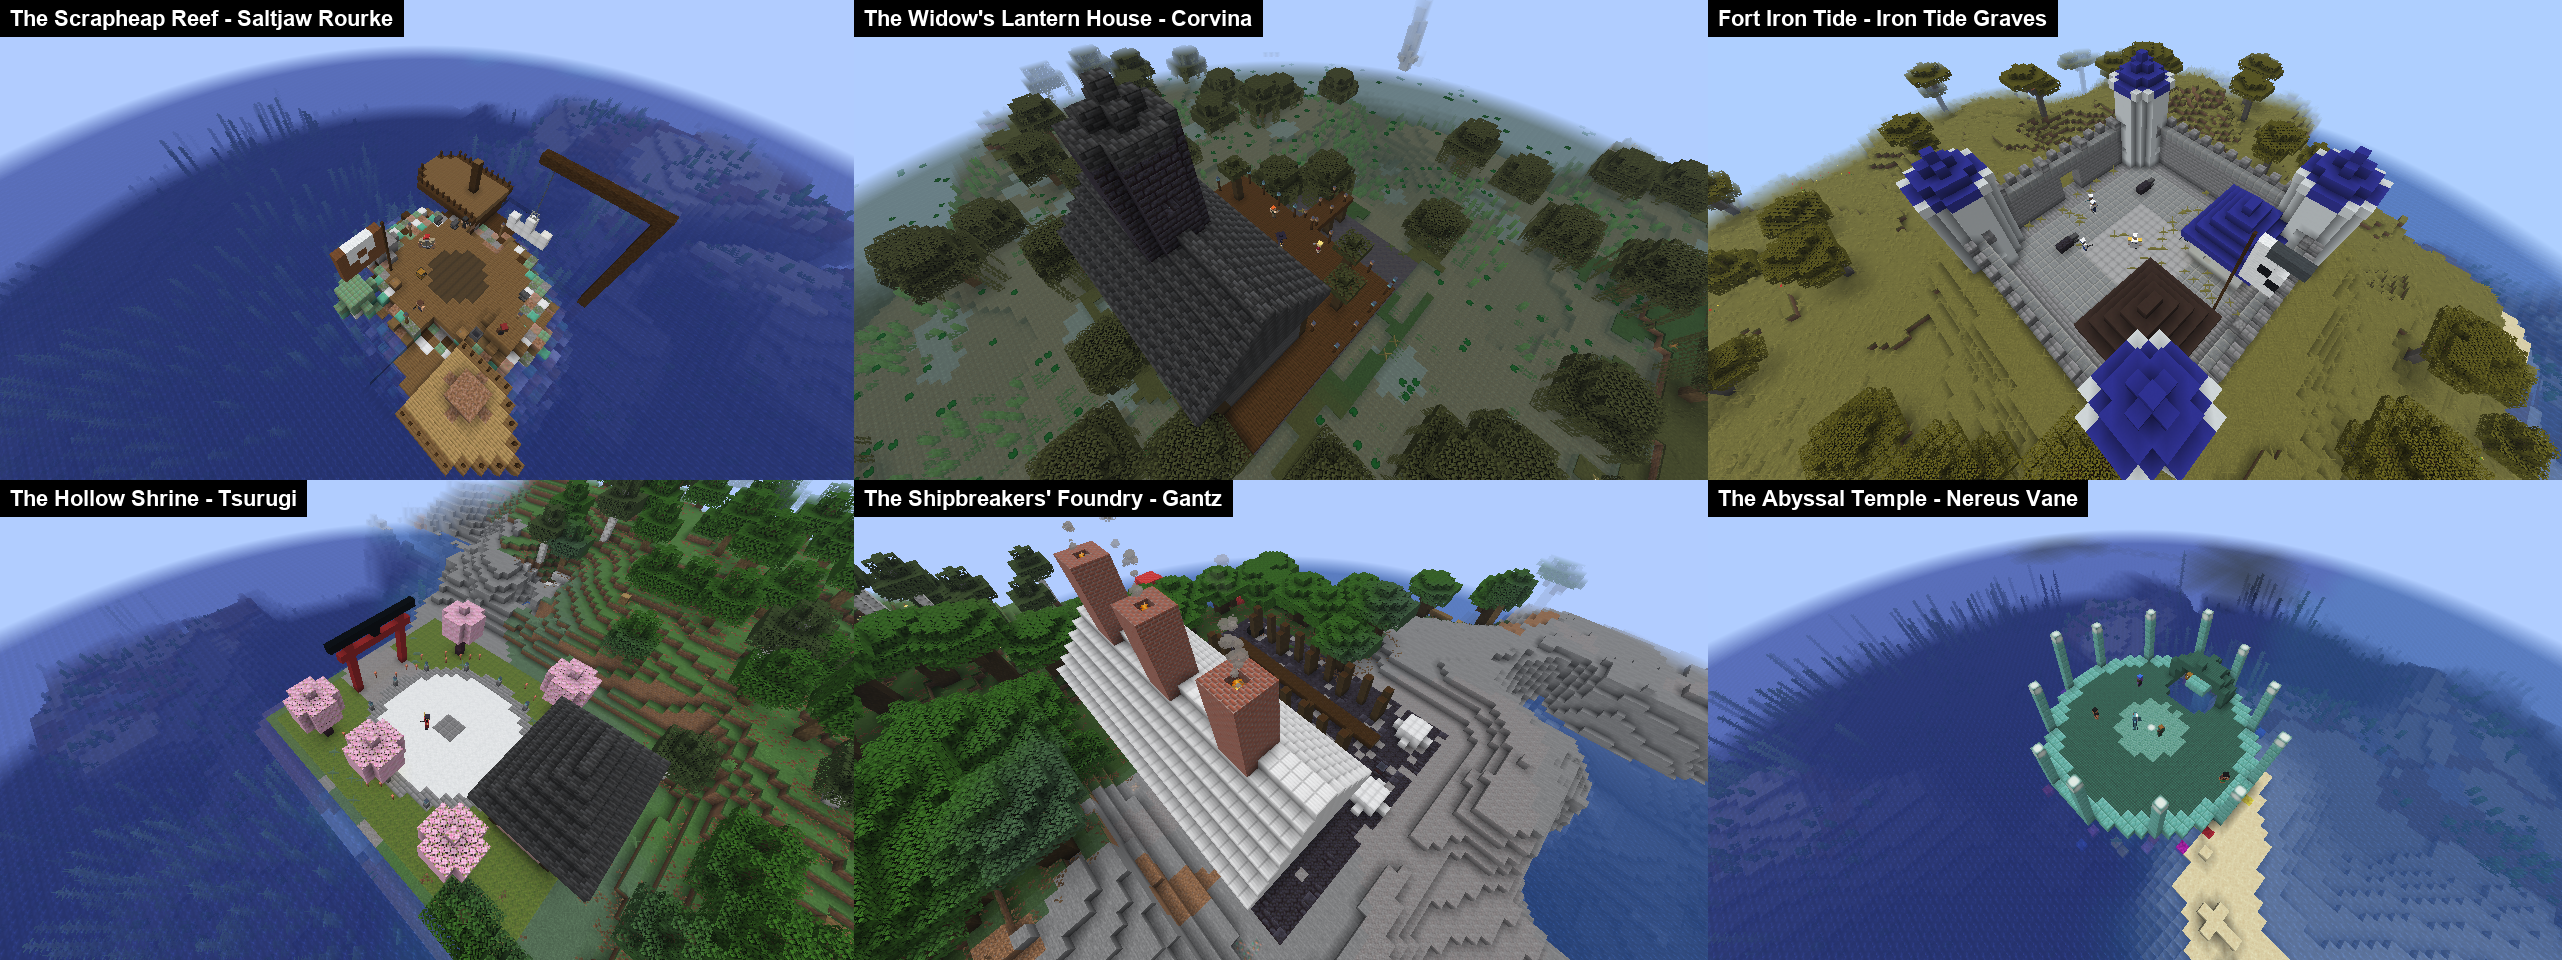
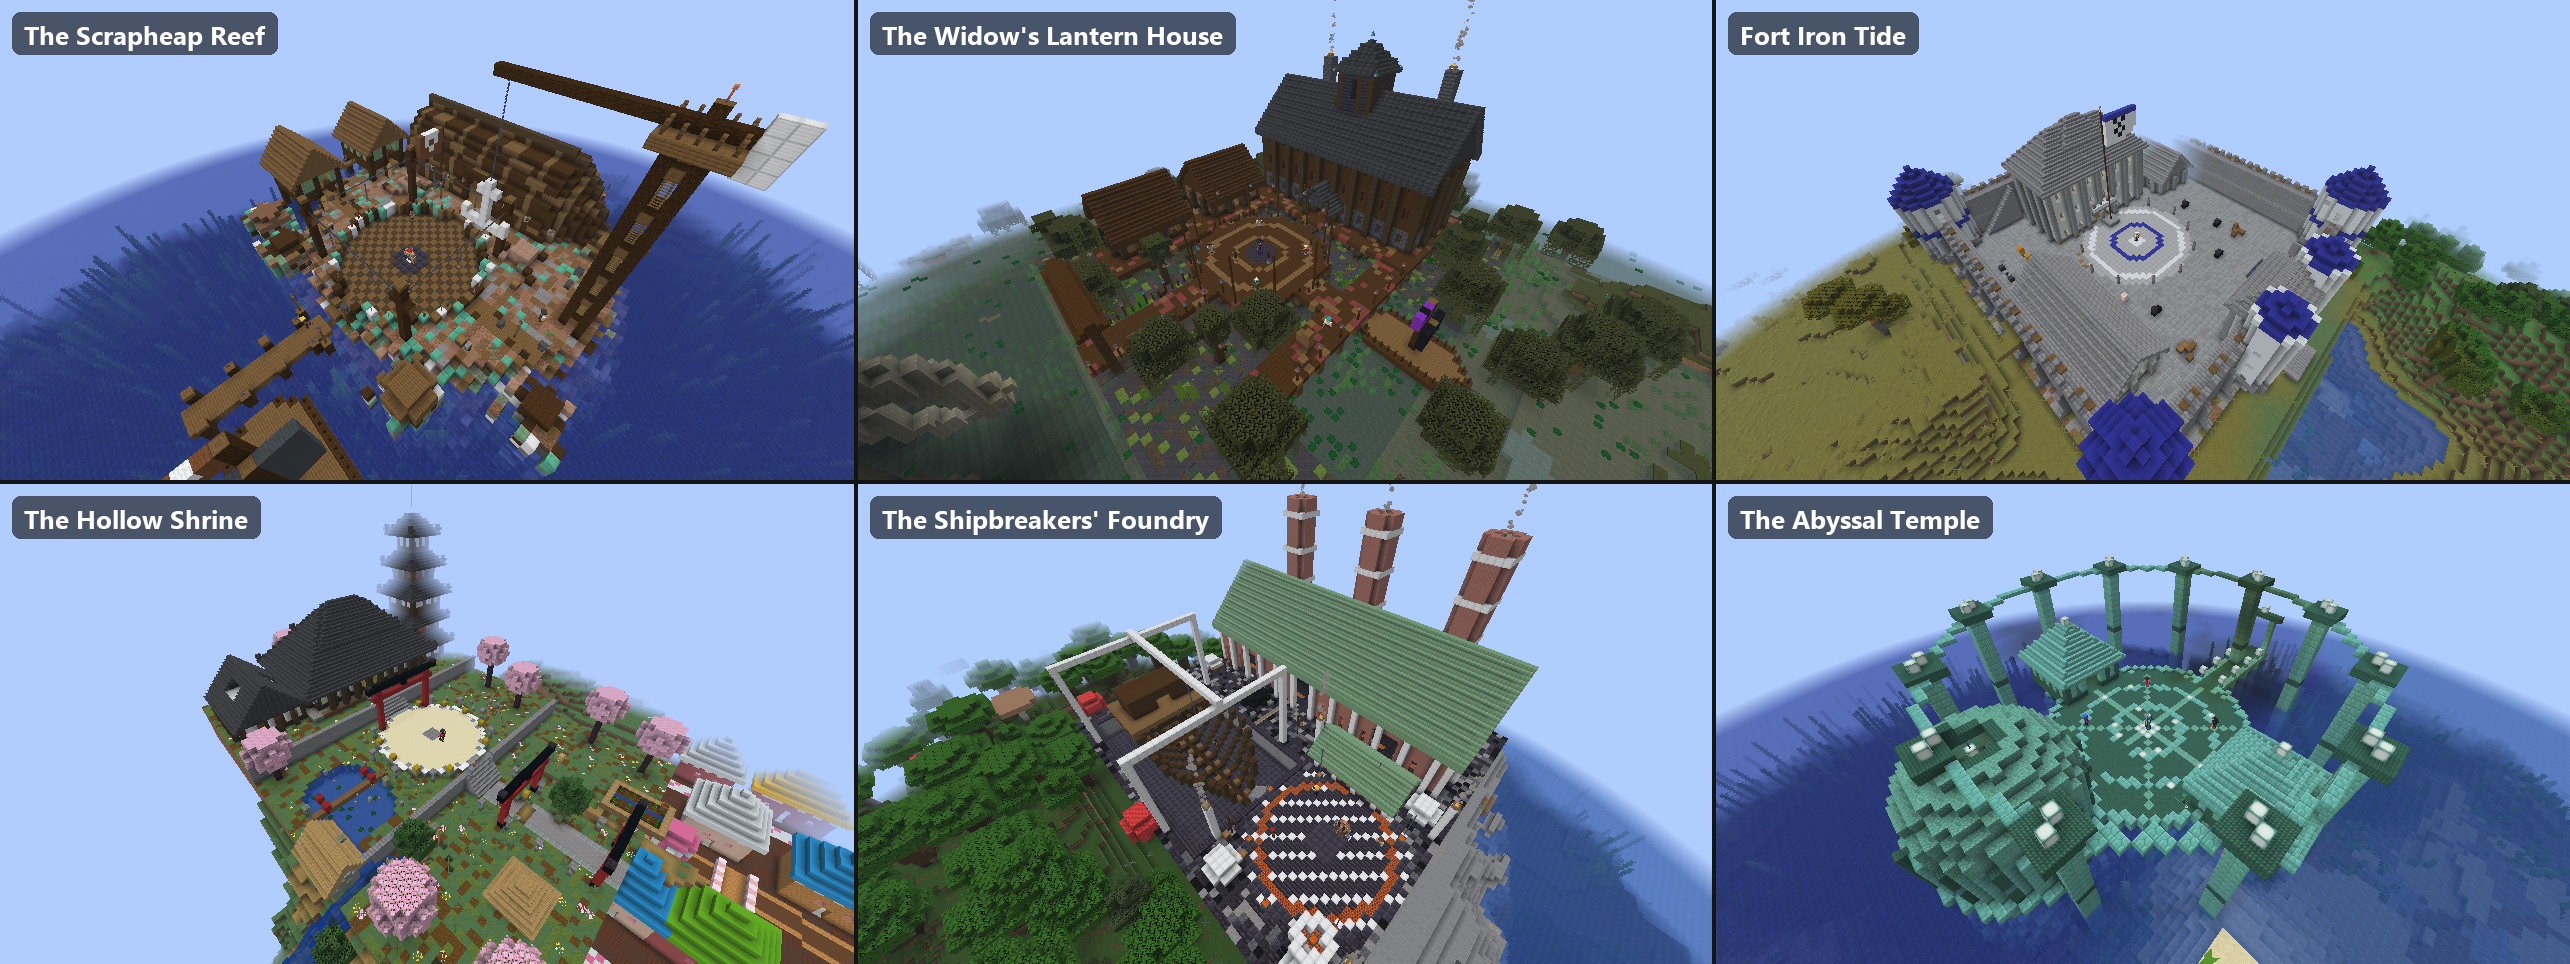
Test the bigger lairs from their own bounds, with ground and interior shots
The lair test now finds each lair's boss, crew and chest inside the structure's real bounds (the Hollow Shrine's
boss was over 72 blocks from its /locate spot), expects seven crew per lair, checks every block id in the
structure palettes, logs the light at each chest, and frames four shots per lair: overviews from the south-east
and north-west sized to the compound, the arena from ground level with a clear view, and the boss's quarters.
docs/lairs.png is the new sheet.

Claude-Session: https://claude.ai/code/session_01ExVGnAX4fyVX4JDUgG3rdo

diff --git a/src/gametest/java/com/onepiecebosses/test/LairsClientTest.java b/src/gametest/java/com/onepiecebosses/test/LairsClientTest.java
@@ -58,12 +58,12 @@ public class LairsClientTest implements FabricClientGameTest {
 	private record Lair(String name, String boss, String kit, int crew, boolean sea) {}
 
 	private static final List<Lair> LAIRS = List.of(
-			new Lair("scrapheap_reef", "saltjaw_rourke", "scrapdeck_raider", 3, true),
-			new Lair("lantern_house", "corvina_fog_widow", "lantern_smuggler", 4, false),
-			new Lair("fort_iron_tide", "iron_tide_graves", "deserter_marine", 5, false),
+			new Lair("scrapheap_reef", "saltjaw_rourke", "scrapdeck_raider", 7, true),
+			new Lair("lantern_house", "corvina_fog_widow", "lantern_smuggler", 7, false),
+			new Lair("fort_iron_tide", "iron_tide_graves", "deserter_marine", 7, false),
 			new Lair("hollow_shrine", "hollow_ronin_tsurugi", "", 0, false),
-			new Lair("shipbreakers_foundry", "boilerheart_gantz", "boiler_stoker", 4, false),
-			new Lair("abyssal_temple", "nereus_vane", "abyssal_cultist", 4, true));
+			new Lair("shipbreakers_foundry", "boilerheart_gantz", "boiler_stoker", 7, false),
+			new Lair("abyssal_temple", "nereus_vane", "abyssal_cultist", 7, true));
 
 	@Override
 	public void runTest(ClientGameTestContext context) {
@@ -100,6 +100,7 @@ public class LairsClientTest implements FabricClientGameTest {
 				}
 			});
 
+			server(sp, LairsClientTest::checkPalettes);
 			Map<String, BlockPos> located = new LinkedHashMap<>();
 			server(sp, s -> {
 				for (Lair lair : LAIRS) {
@@ -125,6 +126,34 @@ public class LairsClientTest implements FabricClientGameTest {
 		}
 		if (!FAILURES.isEmpty()) {
 			throw new AssertionError("One Piece Bosses lair test failures:\n" + String.join("\n", FAILURES));
+		}
+	}
+
+	/** Every block id in each lair's .nbt palette is a real block: a bad id would silently place as air. */
+	private static void checkPalettes(MinecraftServer s) {
+		for (Lair lair : LAIRS) {
+			String path = "data/opbosses/structure/" + lair.name + ".nbt";
+			try (var in = LairsClientTest.class.getClassLoader().getResourceAsStream(path)) {
+				if (in == null) {
+					check(false, lair.name + ": no " + path);
+					continue;
+				}
+				var nbt = net.minecraft.nbt.NbtIo.readCompressed(in, net.minecraft.nbt.NbtAccounter.unlimitedHeap());
+				var palette = nbt.getListOrEmpty("palette");
+				int bad = 0;
+				for (int i = 0; i < palette.size(); i++) {
+					var entry = palette.getCompoundOrEmpty(i);
+					String id = entry.getStringOr("Name", entry.getStringOr("id", ""));
+					Identifier key = Identifier.tryParse(id);
+					if (key == null || !BuiltInRegistries.BLOCK.containsKey(key)) {
+						bad++;
+						check(false, lair.name + ": unknown block " + id + " in the structure");
+					}
+				}
+				LOG.info("LT {} palette {} block states, {} unknown, {} blocks", lair.name, palette.size(), bad, nbt.getListOrEmpty("blocks").size());
+			} catch (java.io.IOException e) {
+				check(false, lair.name + ": can't read " + path + ": " + e);
+			}
 		}
 	}
 
@@ -172,16 +201,25 @@ public class LairsClientTest implements FabricClientGameTest {
 		context.waitTicks(60);
 		sp.getConnection().waitForChunksRender();
 		context.waitTicks(20);
-		double[] camera = new double[5];
-		server(sp, s -> inspect(s, lair, pos, "natural", camera));
-		if (camera[1] != 0) {
-			server(sp, s -> player(s).teleportTo(s.overworld(), camera[0], camera[1], camera[2], Set.of(), (float) camera[3], (float) camera[4], true));
+		List<double[]> cameras = new ArrayList<>();
+		server(sp, s -> inspect(s, lair, pos, "natural", cameras));
+		String[] shots = {"", "_ground", "_inside", "_north"};
+		for (int i = 0; i < cameras.size(); i++) {
+			double[] c = cameras.get(i);
+			server(sp, s -> player(s).teleportTo(s.overworld(), c[0], c[1], c[2], Set.of(), (float) c[3], (float) c[4], true));
 			context.waitTicks(30);
 			sp.getConnection().waitForChunksRender();
 			context.runOnClient(client -> client.gui.hud.getChat().clearMessages(true));
 			context.waitTicks(20);
-			context.takeScreenshot("lair_" + lair.name);
+			context.takeScreenshot("lair_" + lair.name + shots[i]);
 		}
+	}
+
+	/** A camera at (x, y, z) looking at (tx, ty, tz), as {x, y, z, yaw, pitch}. */
+	private static double[] look(double x, double y, double z, double tx, double ty, double tz) {
+		double yaw = Math.toDegrees(Math.atan2(-(tx - x), tz - z));
+		double pitch = Math.toDegrees(Math.atan2(y - ty, Math.hypot(tx - x, tz - z)));
+		return new double[] {x, y, z, yaw, pitch};
 	}
 
 	private void placeTest(ClientGameTestContext context, TestSingleplayerContext sp, Lair lair, int i, List<BlockPos> used) throws Exception {
@@ -233,13 +271,21 @@ public class LairsClientTest implements FabricClientGameTest {
 	 * Checks the boss, crew and chest of the lair near pos. A natural lair (camera != null) is also checked for anyone
 	 * stuck in a block and for its height above the sea, and the camera is set to look down at it.
 	 */
-	private static void inspect(MinecraftServer s, Lair lair, BlockPos pos, String how, double[] camera) {
+	private static void inspect(MinecraftServer s, Lair lair, BlockPos pos, String how, List<double[]> camera) {
 		ServerLevel level = s.overworld();
 		String name = lair.name + " (" + how + ")";
-		AABB area = new AABB(pos).inflate(72, 100, 72);
+		// The lair's own bounds: the /locate spot is just its start chunk, and the compounds are up to 100 blocks across.
+		var start = level.getChunk(pos).getStartForStructure(structure(s, lair.name).value());
+		var bb = start != null && start.isValid() ? start.getBoundingBox() : new net.minecraft.world.level.levelgen.structure.BoundingBox(pos).inflatedBy(72);
+		LOG.info("LT {} bounds {} {} {} .. {} {} {} ({} x {} x {}) start found={}", name, bb.minX(), bb.minY(), bb.minZ(), bb.maxX(), bb.maxY(),
+				bb.maxZ(), bb.getXSpan(), bb.getYSpan(), bb.getZSpan(), start != null && start.isValid());
+		AABB area = AABB.of(bb).inflate(16);
 		RogueBossEntity boss = level.getEntitiesOfClass(RogueBossEntity.class, area, e -> e.isAlive() && e.getCharacterId().equals(lair.boss)).stream()
 				.min(Comparator.comparingDouble(e -> e.distanceToSqr(pos.getX(), e.getY(), pos.getZ()))).orElse(null);
 		if (boss == null) {
+			for (RogueBossEntity e : level.getEntitiesOfClass(RogueBossEntity.class, area.inflate(200), e -> true)) {
+				LOG.info("LT {} other boss {} alive={} at {}", name, e.getCharacterId(), e.isAlive(), e.blockPosition());
+			}
 			check(false, name + ": no " + lair.boss + " nearby");
 			return;
 		}
@@ -275,6 +321,7 @@ public class LairsClientTest implements FabricClientGameTest {
 
 		// Only this mod's chests: a lair may sit on top of a dungeon or next to a shipwreck.
 		int chests = 0;
+		BlockPos chestAt = null;
 		for (int cx = (boss.getBlockX() >> 4) - 3; cx <= (boss.getBlockX() >> 4) + 3; cx++) {
 			for (int cz = (boss.getBlockZ() >> 4) - 3; cz <= (boss.getBlockZ() >> 4) + 3; cz++) {
 				for (BlockPos bp : level.getChunk(cx, cz).getBlockEntitiesPos()) {
@@ -296,6 +343,7 @@ public class LairsClientTest implements FabricClientGameTest {
 						}
 					}
 					chests++;
+					chestAt = bp.immutable();
 					LOG.info("LT {} chest {} at {} ({} above the boss) items={}", name, table, bp, bp.getY() - boss.getBlockY(), items);
 					check(!items.isEmpty(), name + ": the chest is empty");
 					check(poster, name + ": no rumor poster for " + lair.boss + " in the chest");
@@ -305,18 +353,67 @@ public class LairsClientTest implements FabricClientGameTest {
 		check(chests == 1, name + ": " + chests + " loot chests");
 
 		if (camera != null) {
-			// High up, looking down at the arena from the south-east.
-			double d = 26 + boss.getBbHeight() * 1.5;
-			camera[0] = boss.getX() + d * 0.5;
-			camera[1] = boss.getY() + d;
-			camera[2] = boss.getZ() + d * 0.5;
-			camera[3] = Math.toDegrees(Math.atan2(-(boss.getX() - camera[0]), boss.getZ() - camera[2]));
-			camera[4] = Math.toDegrees(Math.atan2(camera[1] - boss.getY(), Math.hypot(camera[0] - boss.getX(), camera[2] - boss.getZ())));
+			double cx = (bb.minX() + bb.maxX() + 1) / 2.0, cz = (bb.minZ() + bb.maxZ() + 1) / 2.0;
+			double span = Math.max(bb.getXSpan(), bb.getZSpan());
+			double ty = boss.getY();
+			// 1. overview: high up from the south-east, far enough out for the whole compound.
+			double d = span * 0.6;
+			camera.add(look(cx + d * 0.55, ty + d * 0.8, cz + d * 0.55, cx, ty, cz));
+			// 2. ground level, 14 blocks from the boss on the first side with a clear view of the arena.
+			double[] ground = null;
+			for (int a = 0; a < 16 && ground == null; a++) {
+				double ang = Math.toRadians(a * 22.5), gx = boss.getX() + Math.sin(ang) * 14, gz = boss.getZ() + Math.cos(ang) * 14, gy = boss.getY() + 1.5;
+				BlockPos gp = BlockPos.containing(gx, gy, gz);
+				if (!level.getBlockState(gp).getCollisionShape(level, gp).isEmpty() || !level.getBlockState(gp.above()).getCollisionShape(level, gp.above()).isEmpty()) {
+					continue;
+				}
+				var eye = new net.minecraft.world.phys.Vec3(gx, gy + 1.62, gz);
+				var hit = level.clip(new net.minecraft.world.level.ClipContext(eye, boss.getEyePosition(), net.minecraft.world.level.ClipContext.Block.VISUAL,
+						net.minecraft.world.level.ClipContext.Fluid.NONE, net.minecraft.world.phys.shapes.CollisionContext.empty()));
+				if (hit.getType() == net.minecraft.world.phys.HitResult.Type.MISS) {
+					ground = look(gx, gy, gz, boss.getX(), boss.getY(), boss.getZ());
+				}
+			}
+			camera.add(ground != null ? ground : look(boss.getX() + 4, boss.getY() + 2.5, boss.getZ() + 14, boss.getX(), boss.getY() + 1.5, boss.getZ()));
+			// 3. inside the boss's quarters: the side of the chest with the most room, backed off up to 6 blocks, looking at it.
+			if (chestAt != null) {
+				BlockPos best = null;
+				int bestRoom = -1;
+				for (var dir : net.minecraft.core.Direction.Plane.HORIZONTAL) {
+					BlockPos at = chestAt.relative(dir);
+					if (!passable(level, at)) {
+						continue;
+					}
+					int room = 0;
+					while (room < 6 && passable(level, at.relative(dir))) {
+						at = at.relative(dir);
+						room++;
+					}
+					if (room > bestRoom) {
+						bestRoom = room;
+						best = at;
+					}
+				}
+				if (best != null) {
+					int light = level.getBrightness(net.minecraft.world.level.LightLayer.BLOCK, chestAt.above());
+					int sky = level.getBrightness(net.minecraft.world.level.LightLayer.SKY, chestAt.above());
+					LOG.info("LT {} quarters: block light {} sky light {} at the chest, camera {} blocks back", name, light, sky, bestRoom + 1);
+					camera.add(look(best.getX() + 0.5, best.getY() + 0.1, best.getZ() + 0.5, chestAt.getX() + 0.5, chestAt.getY() - 1.4, chestAt.getZ() + 0.5));
+				}
+			}
+			// 4. overview from the north-west, the other side.
+			camera.add(look(cx - d * 0.55, ty + d * 0.6, cz - d * 0.55, cx, ty, cz));
 			boss.setNoAi(true);
 			for (HumanNpc npc : crew) {
 				npc.setNoAi(true);
 			}
 		}
+	}
+
+	/** A spot a player could stand in: low or no block at the feet, nothing at the head. */
+	private static boolean passable(ServerLevel level, BlockPos p) {
+		var feet = level.getBlockState(p).getCollisionShape(level, p);
+		return (feet.isEmpty() || feet.max(net.minecraft.core.Direction.Axis.Y) <= 0.5) && level.getBlockState(p.above()).getCollisionShape(level, p.above()).isEmpty();
 	}
 
 	/** The first solid block inside the entity's box, or null if it's standing free. */
